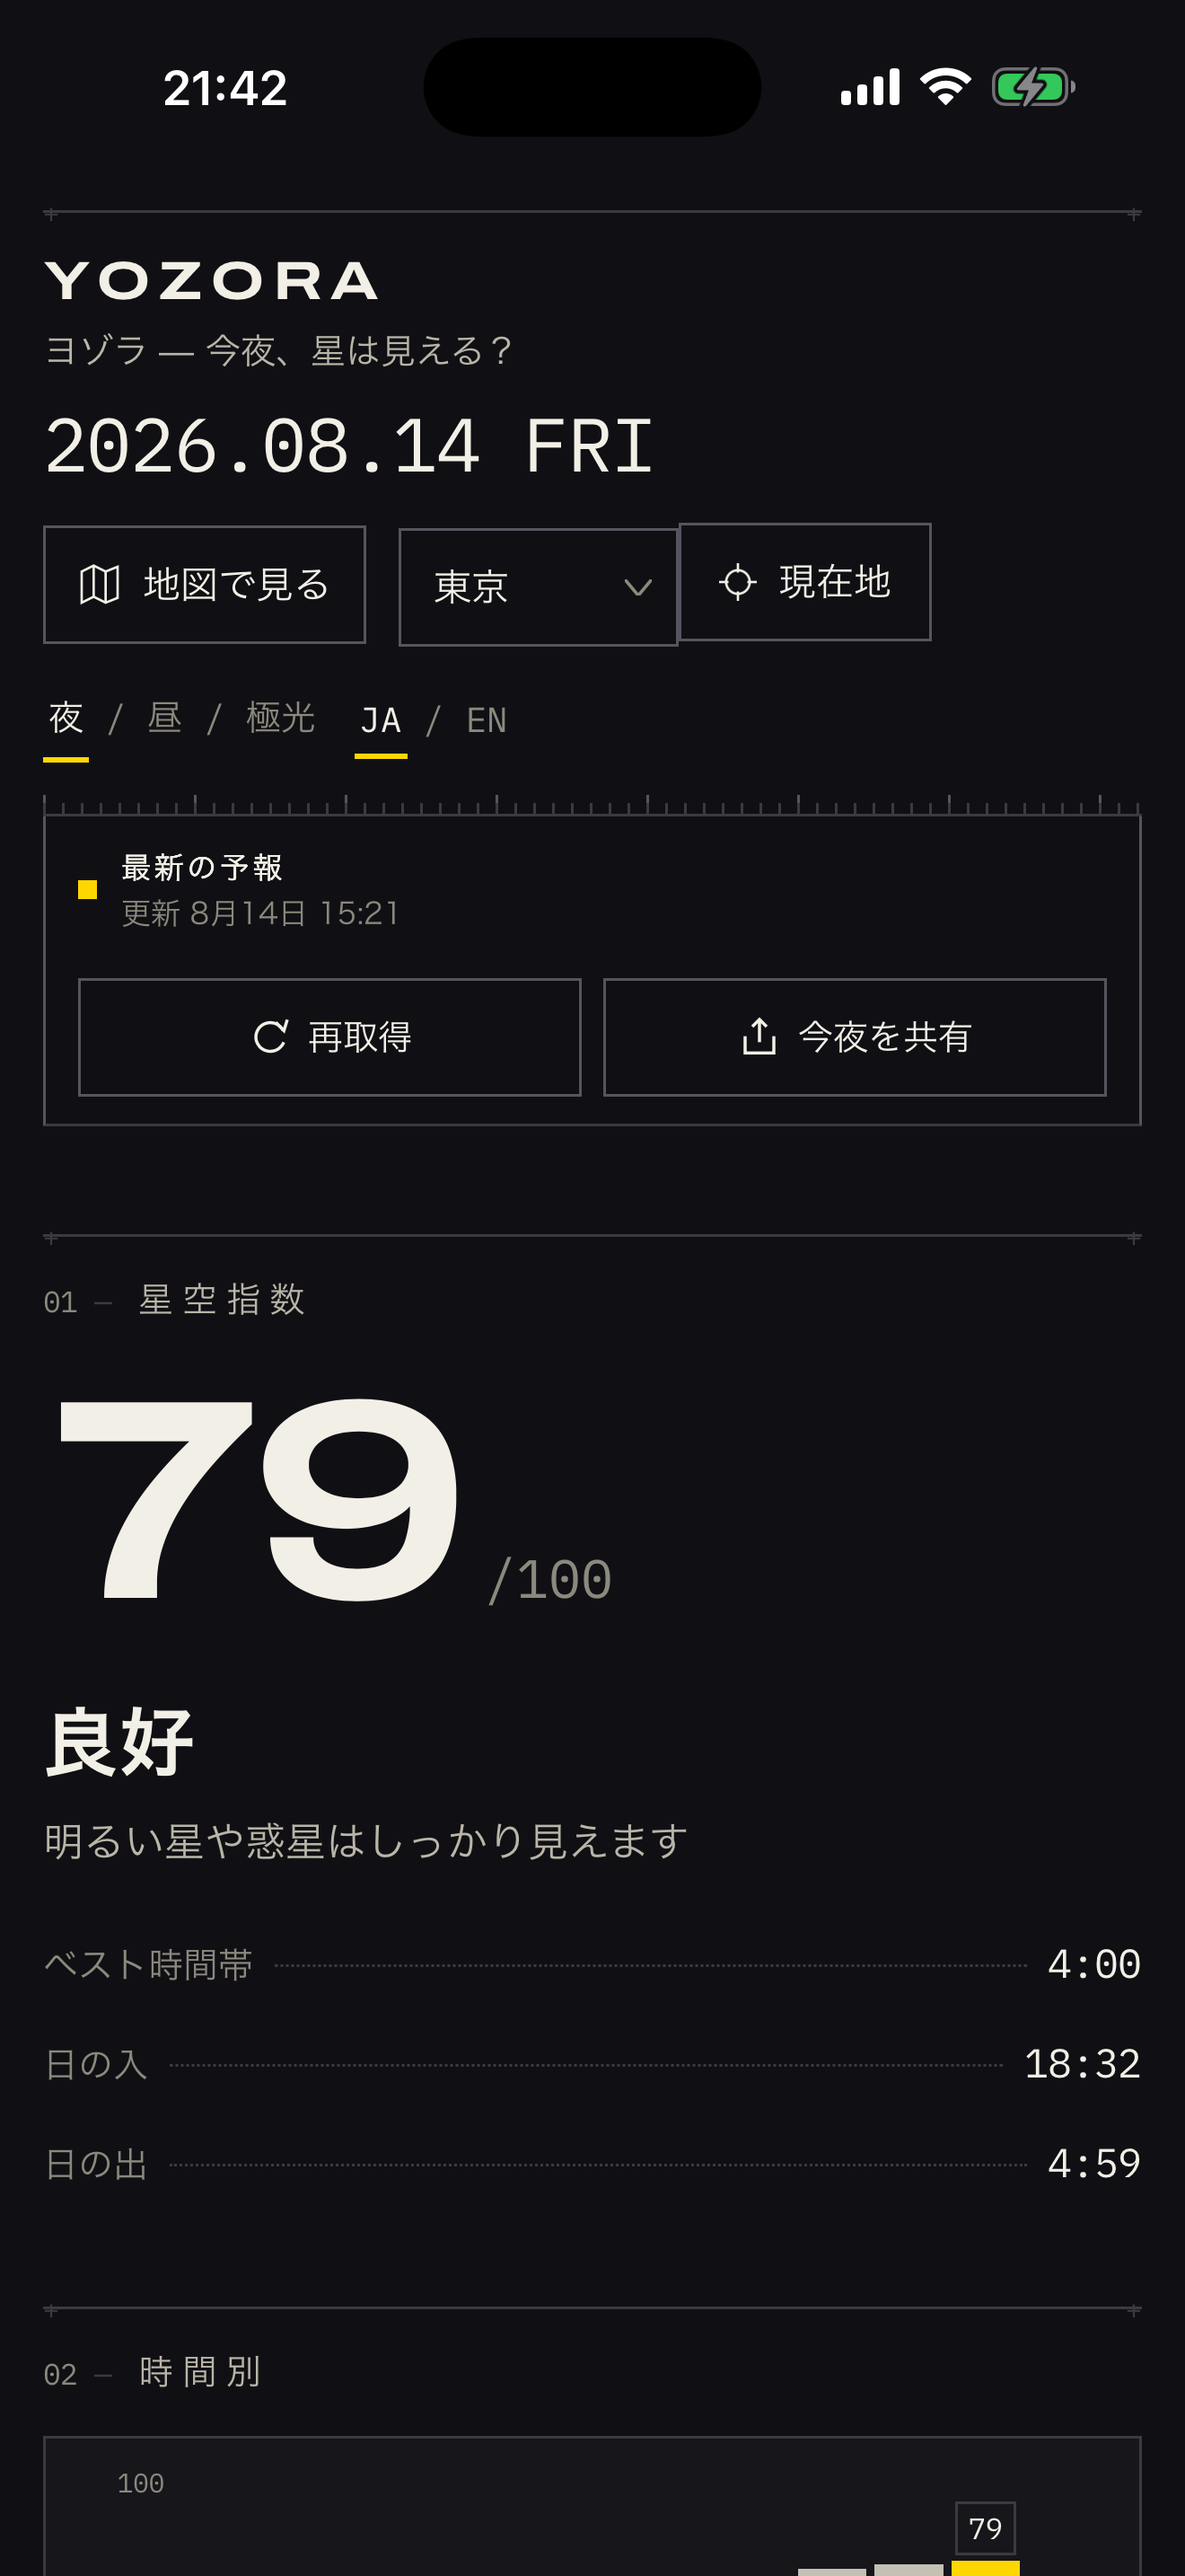
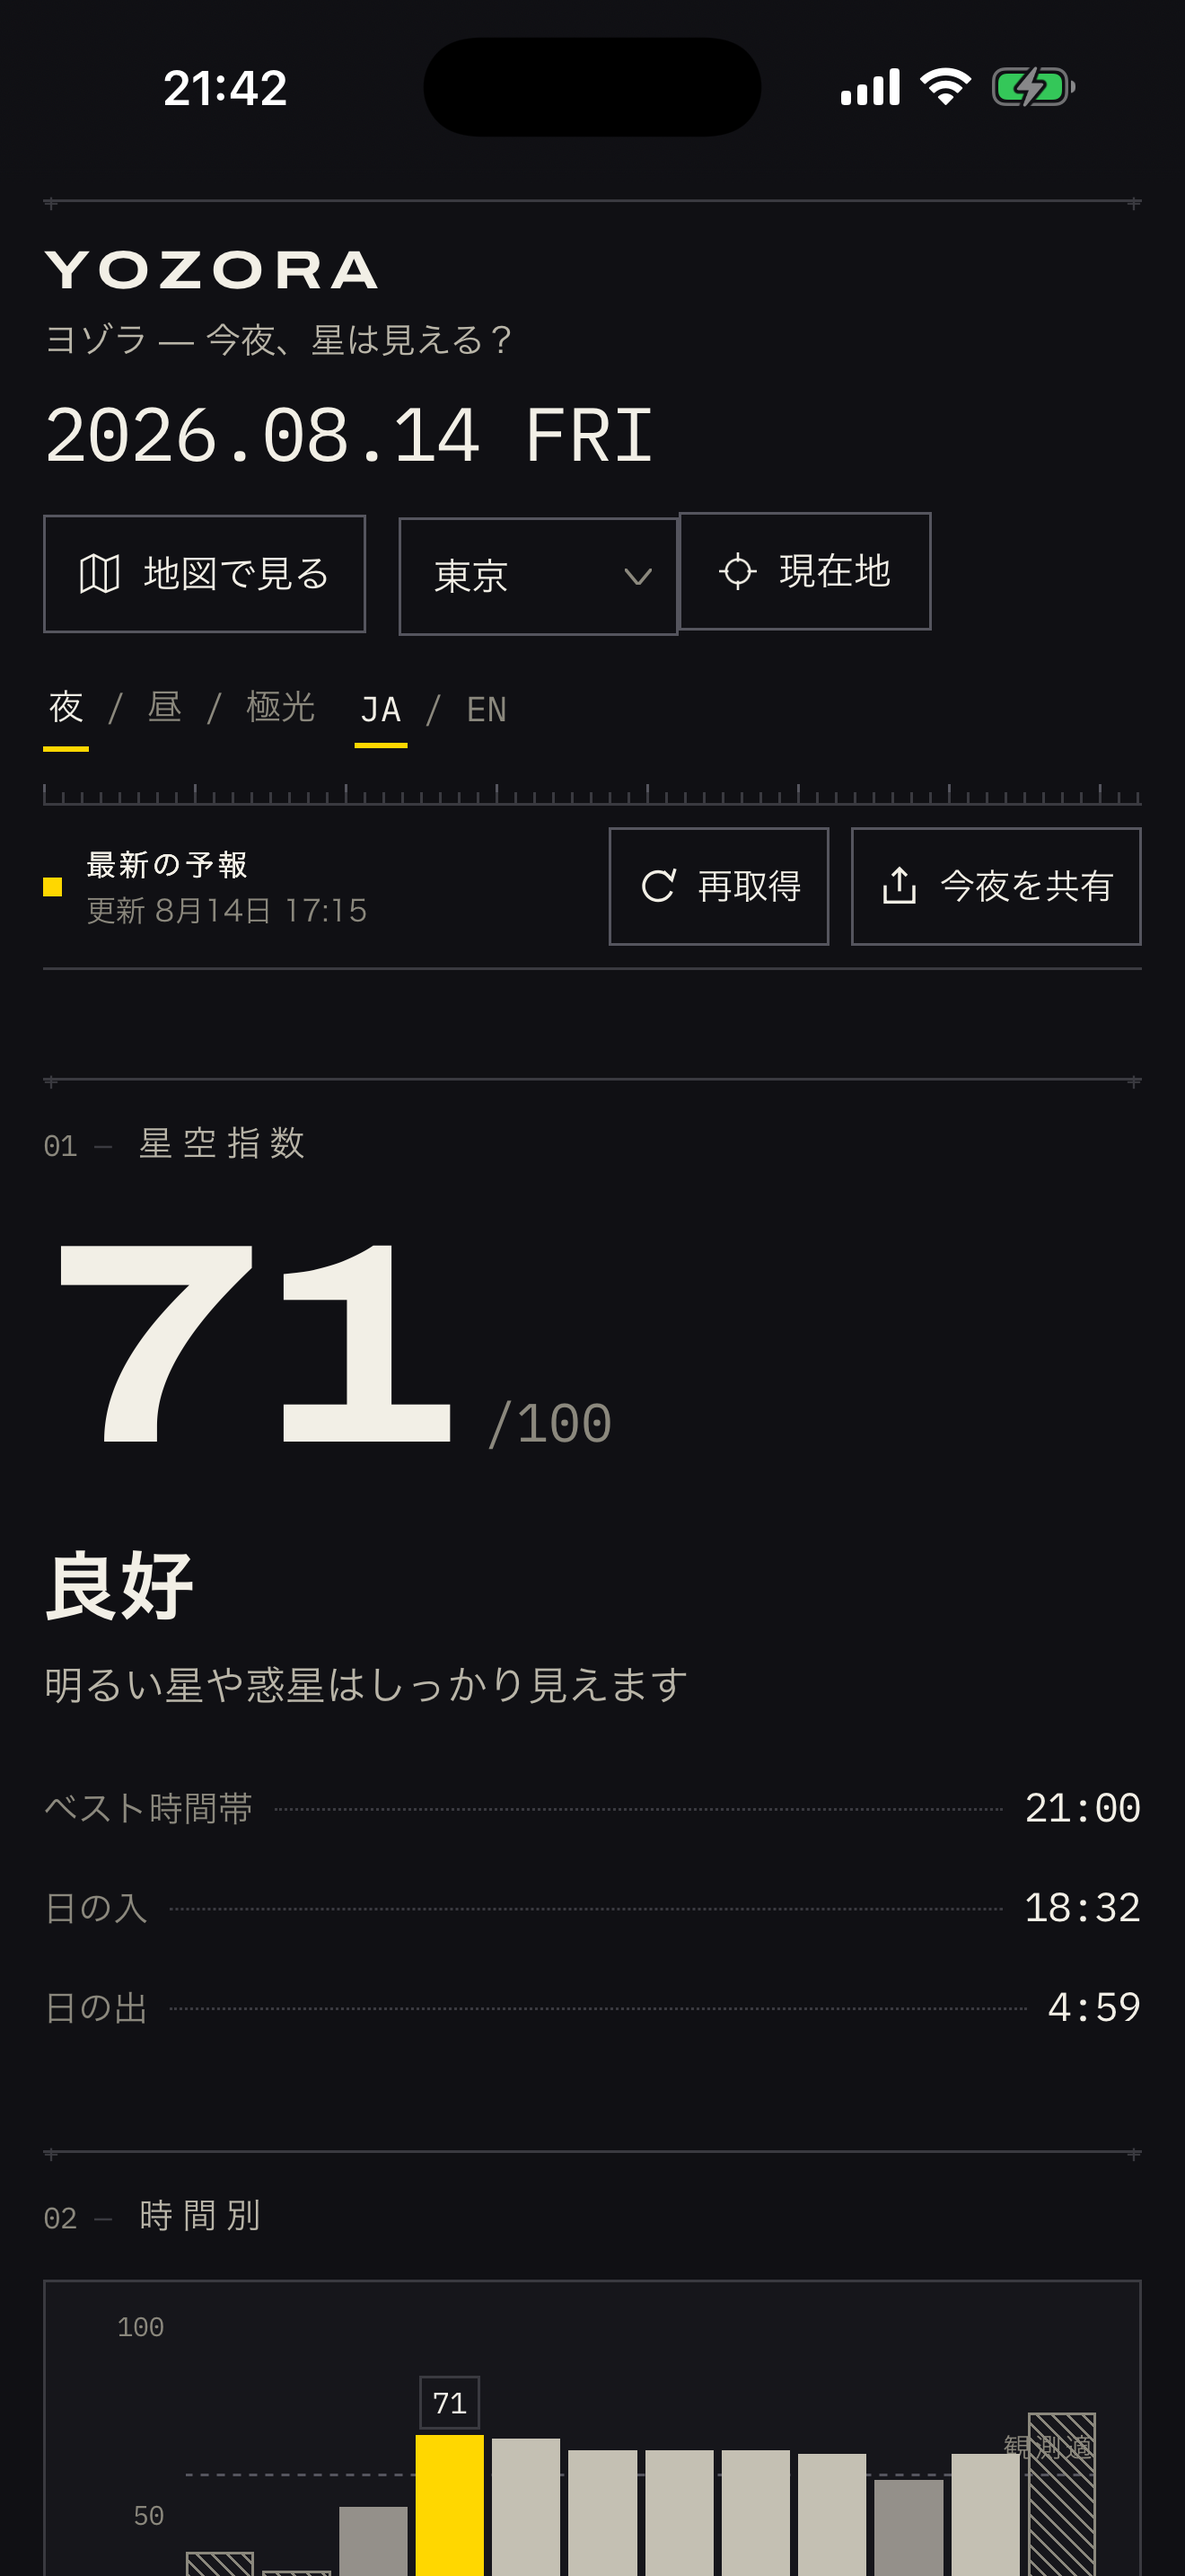
Fix iOS safe-area layout and refresh store assets

diff --git a/src/index.css b/src/index.css
@@ -66,40 +66,32 @@ body {
   -webkit-font-smoothing: antialiased;
 }
 
-/* 縦スクロール中もコンテンツがDynamic Islandの背面へ出ないようにする */
-body::before {
-  background: var(--ground);
-  content: '';
-  height: env(safe-area-inset-top);
-  inset: 0 0 auto;
-  pointer-events: none;
-  position: fixed;
-  z-index: 90;
-}
-.native-app body::before {
-  height: max(58px, env(safe-area-inset-top));
-}
-.native-status-mask {
-  display: none;
-}
-.native-app .native-status-mask {
-  background: var(--ground);
-  display: block;
-  height: max(58px, env(safe-area-inset-top));
-  inset: 0 0 auto;
-  pointer-events: none;
-  position: fixed;
-  z-index: 1000;
-}
-
 #root {
   max-width: 1080px;
   margin: 0 auto;
   padding:
-    max(24px, env(safe-area-inset-top))
+    max(24px, calc(env(safe-area-inset-top, 0px) + 12px))
     max(20px, env(safe-area-inset-right))
     max(48px, env(safe-area-inset-bottom))
     max(20px, env(safe-area-inset-left));
+  position: relative;
+  z-index: 1;
+}
+
+/* スクロール中の本文だけをステータス領域から隠し、固定バー状の境界は作らない */
+.native-app #root::before {
+  background: linear-gradient(
+    to bottom,
+    var(--ground) 0,
+    var(--ground) calc(100% - 8px),
+    transparent 100%
+  );
+  content: '';
+  height: calc(env(safe-area-inset-top, 0px) + 8px);
+  inset: 0 0 auto;
+  pointer-events: none;
+  position: fixed;
+  z-index: 100;
 }
 
 button {
@@ -296,12 +288,10 @@ button {
 .native-toolbar {
   align-items: center;
   border-bottom: 1px solid var(--rule);
-  border-left: 1px solid var(--rule-strong);
-  border-right: 1px solid var(--rule-strong);
   display: flex;
-  gap: 16px;
+  gap: 12px;
   justify-content: space-between;
-  padding: 10px 12px;
+  padding: 8px 0;
 }
 .native-toolbar-cached {
   border-color: var(--accent-text);
@@ -340,6 +330,7 @@ button {
 .native-actions {
   display: flex;
   gap: 8px;
+  margin-left: auto;
 }
 .native-actions button,
 .status-error button {
@@ -982,18 +973,19 @@ select.city-select option {
 @media (max-width: 767px) {
   #root {
     padding:
-      max(16px, env(safe-area-inset-top))
+      max(16px, calc(env(safe-area-inset-top, 0px) + 12px))
       max(16px, env(safe-area-inset-right))
       max(40px, env(safe-area-inset-bottom))
       max(16px, env(safe-area-inset-left));
   }
   .native-toolbar {
-    align-items: stretch;
-    flex-direction: column;
+    align-items: center;
+    flex-direction: row;
   }
   .native-actions button {
-    flex: 1;
+    flex: 0 0 auto;
     justify-content: center;
+    padding: 7px 9px;
   }
   .section {
     grid-template-columns: 1fr;
@@ -1121,7 +1113,7 @@ select.city-select option {
   content: '';
   position: fixed;
   inset: -30% -10%;
-  z-index: -1;
+  z-index: 0;
   pointer-events: none;
   background:
     radial-gradient(38% 30% at 22% 24%, rgba(46, 230, 168, 0.4), transparent 70%),
@@ -1157,22 +1149,8 @@ select.city-select option {
   background: rgba(13, 19, 44, 0.52);
   -webkit-backdrop-filter: blur(18px) saturate(1.4);
   backdrop-filter: blur(18px) saturate(1.4);
-  border: 1px solid rgba(255, 255, 255, 0.14);
   border-radius: 16px;
-  padding-left: 22px;
-  padding-right: 22px;
-  padding-bottom: 20px;
-}
-:root[data-theme='aurora'] .masthead {
-  padding-top: 18px;
-}
-:root[data-theme='aurora'] .section {
-  margin-top: 28px;
-  padding-top: 16px;
-}
-:root[data-theme='aurora'] .footer {
-  margin-top: 40px;
-  padding-top: 14px;
+  box-shadow: inset 0 0 0 1px rgba(255, 255, 255, 0.14);
 }
 /* トンボはガラス上では非表示（印刷版面の記号のため） */
 :root[data-theme='aurora'] .masthead::before,

diff --git a/src/main.tsx b/src/main.tsx
@@ -8,23 +8,6 @@ import { isNativeApp } from './lib/native.ts'
 
 const nativeApp = isNativeApp()
 document.documentElement.classList.toggle('native-app', nativeApp)
-if (nativeApp) {
-  const statusMask = document.createElement('div')
-  statusMask.className = 'native-status-mask'
-  statusMask.setAttribute('aria-hidden', 'true')
-  Object.assign(statusMask.style, {
-    background: 'var(--ground)',
-    display: 'block',
-    height: '58px',
-    left: '0',
-    pointerEvents: 'none',
-    position: 'fixed',
-    right: '0',
-    top: '0',
-    zIndex: '2147483647',
-  })
-  document.body.append(statusMask)
-}
 
 if (import.meta.env.PROD && !nativeApp && 'serviceWorker' in navigator) {
   window.addEventListener('load', () => {

diff --git a/index.html b/index.html
@@ -2,7 +2,7 @@
 <html lang="ja">
   <head>
     <meta charset="UTF-8" />
-    <meta name="viewport" content="width=device-width, initial-scale=1.0" />
+    <meta name="viewport" content="width=device-width, initial-scale=1.0, viewport-fit=cover" />
     <meta name="description" content="今夜、星は見える？星空指数・惑星・月・ISS・流星群を一目で確認 — Will the stars be out tonight? Stargazing index, planets, moon, ISS passes and meteor showers at a glance." />
     <meta name="theme-color" content="#101014" />
     <meta name="mobile-web-app-capable" content="yes" />

diff --git a/AppStore/Registration-Status.md b/AppStore/Registration-Status.md
@@ -8,7 +8,7 @@
 - Apple ID: 6801428026
 - Bundle ID: jp.tama.yozora
 - SKU: YOZORA-IOS-2026
-- バージョン / ビルド: 1.0 / 1
+- バージョン / ビルド: 1.0 / 3
 - 現在の状態: 提出準備中
 - 価格: 無料
 - 配信地域: 175地域
@@ -31,15 +31,20 @@
 - Web単体テスト: 53件成功
 - lint: 成功
 - 本番Webビルド: 成功
+- 昼・夜・極光テーマの主要レイアウト寸法一致を確認
+- iOS最上部の二重マスクを撤去し、safe area基準の余白へ統一
+- モバイル上部ツールバーを一段のコンパクト表示へ修正
 - iOSシミュレータでビルド、インストール、起動、画面取得
-- 実機「TAMA」（iPhone 16 Pro / iOS 26.6）向けDebugビルド: 成功
-- 実機へのインストールと `jp.tama.yozora` の起動: 成功（起動プロセス確認済み）
-- 実機向けRelease archive: 成功
+- 実機「TAMA」（iPhone 16 Pro / iOS 26.6）向けBuild 3 Debugビルド: 成功
+- Build 3の実機インストールと `jp.tama.yozora` の起動: 成功（起動プロセス確認済み）
+- Build 3のRelease archive: 成功
 - Privacy Manifestと暗号化申告キーをアーカイブ内で確認
 - 配布用IPAのApple事前検証: エラー0件
-- Build 1アップロード: 成功（Delivery UUID: 4eb9c8de-3f1a-4dcb-8d97-871c969a35bc）
-- Apple側のBuild処理: VALID / APP_STORE_ELIGIBLE
-- バージョン1.0にBuild 1を選択済み
+- Build 3アップロード: 成功（Delivery UUID: 353e45c5-2d63-49e8-88bf-d6f630bd3774）
+- Apple側のBuild 3処理: VALID / APP_STORE_ELIGIBLE
+- バージョン1.0にBuild 3を選択済み
+- 上部描画修正版の6.9インチ用スクリーンショット5枚を再作成・差し替え済み
+- スクリーンショット順序: ホーム、時間別、惑星、全国地図、観測一覧
 - 新しい実写スノードームアイコンがBuild情報に反映済み
 - 無料価格（各地域0.00）と175地域の配信可能状態を画面で再確認
 - バージョン画面で「審査用に追加」ボタンが利用可能なことを確認
